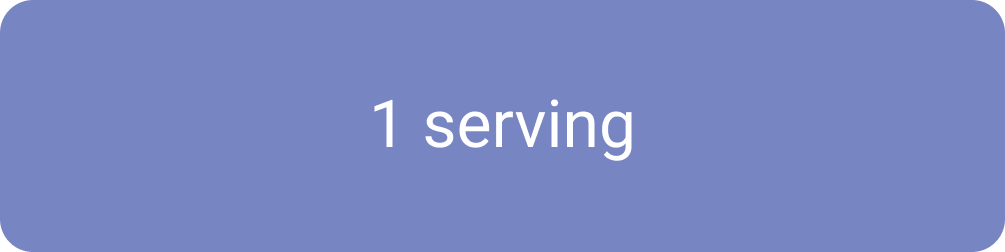
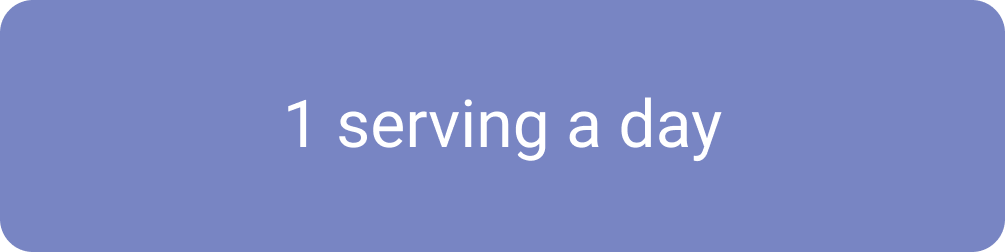
card changes for a week/a day servings; adjusted feedback screen language; adjusted language on alcohol; fixed language bugs;

diff --git a/public/js/script.js b/public/js/script.js
@@ -278,7 +278,7 @@ survey
         if (options.page.name == "page5") {
             if (survey.getQuestionByName("activity-low").value > 1) {
                 survey.getQuestionByName("activity-low-next-title").html = "<div id='sketch-holder'></div> <br>" +
-                    '<h3><center>Nice! And tell me how much intense physical exercise do you do a week?</center></h3>';
+                    '<h3><center>Nice! And tell me how much low intensity exercise do you do a week?</center></h3>';
                 survey.getQuestionByName("activity-low-next").choices = [
                     {"value": 0.75, "imageLink": generic_sport[2]},
                     {"value": 2, "imageLink": generic_sport[3]},
@@ -287,7 +287,7 @@ survey
 
             } else {
                 survey.getQuestionByName("activity-low-next-title").html = "<div id='sketch-holder'></div> <br>" +
-                    '<h3><center>Okay so how much intense physical exercise do you do a week?</center></h3>';
+                    '<h3><center>Okay so how much low intensity exercise do you do a week?</center></h3>';
                 survey.getQuestionByName("activity-low-next").choices = [
                     {"value": 0, "imageLink": generic_sport[0]},
                     {"value": 0.25, "imageLink": generic_sport[1]},
@@ -341,7 +341,7 @@ survey
         if (options.page.name == "page13") {
             if (survey.getQuestionByName("veggies").value > 1) {
                 survey.getQuestionByName("veggies-title").html = "<div id='sketch-holder'></div> <br>" +
-                    '<h3><center>Nice, veggies are super important for good heart health! How many servings you eat a day??</center></h3>' +
+                    '<h3><center>Niiice! How many servings you eat a day??</center></h3>' +
                     "<img alt='' style='margin-left:auto; margin-right:auto; display:block; width:100%;' src='img/veggies_next_image.png'></img>";
                 survey.getQuestionByName("veggies-next").choices = [
                     {"value": 0.5, "imageLink": veggies_a[1]},
@@ -350,7 +350,7 @@ survey
                     {"value": 3, "imageLink": veggies_a[4]}];
             } else {
                 survey.getQuestionByName("veggies-title").html = "<div id='sketch-holder'></div> <br>" +
-                    '<h3><center>Got it! Well, we all know veggies are good for you. So I have to ask, how many servings you eat a day?</center></h3>' +
+                    '<h3><center>Got it! So I have to ask, how many servings you eat a day?</center></h3>' +
                     "<img alt='' style='margin-left:auto; margin-right:auto; display:block; width:100%;' src='img/veggies_next_image.png'></img>";
                 survey.getQuestionByName("veggies-next").choices = [
                     {"value": 0, "imageLink": veggies_a[0]},
@@ -467,7 +467,7 @@ survey
         if (options.page.name == "page30") {
             if (survey.getQuestionByName("alcohol").value > 1) {
                 survey.getQuestionByName("alcohol-title").html = "<div id='sketch-holder'></div> <br>" +
-                    '<h3><center>Okay! Actually drinking alcohol can improve your heart health. How many glasses do you drink a week?</center></h3>';
+                    '<h3><center>Okay! How many glasses do you drink a week?</center></h3>';
                 survey.getQuestionByName("alcohol-next").choices = [
                     {"value": 0.3, "imageLink": alcohol_a[2]},
                     {"value": 0.5, "imageLink": alcohol_a[3]},
@@ -475,7 +475,7 @@ survey
                     {"value": 2, "imageLink": alcohol_a[5]}];
             } else {
                 survey.getQuestionByName("alcohol-title").html = "<div id='sketch-holder'></div> <br>" +
-                    '<h3><center>Alcohol is a bit tricky, a lot isn’t super good for you, but none isn’t either.... 😬 How many glasses do you drink a week?</center></h3>';
+                    '<h3><center>Okay! How many glasses do you drink a week?</center></h3>';
                 survey.getQuestionByName("alcohol-next").choices = [
                     {"value": 0, "imageLink": alcohol_a[0]},
                     {"value": 0.1, "imageLink": alcohol_a[1]},
@@ -645,10 +645,12 @@ survey.onValueChanged.add(function (survey, options) {
 
 
     //
+    var summarySubtitleIndex = 0;
     if (relativeRisk <= 1.0) {
         relativeRiskWord = "Looking good!";
         summaryImage = "./img/Results=Good.jpg"; // healthy.gif
         feedbackImage = "./img/feedback-Results=Good.jpg"; // healthy.gif
+        summarySubtitleIndex = 1;
     } else if (relativeRisk > 1.0 /* was 1.5 before but confusing for usersy6 */ && relativeRisk < 4) {
         relativeRiskWord = "Slightly elevated";
         summaryImage = "./img/Results=Okay.jpg"; // unhealthy.gif
@@ -662,7 +664,7 @@ survey.onValueChanged.add(function (survey, options) {
     const summaryQuestion = survey.getQuestionByName("summary");
     summaryQuestion.html = "<div><center> <h4>Your future risk is...</h4>"
         + "<p><img alt=''  class='summary-image' src=" + summaryImage + "?v=2></p><h3>" + relativeRiskWord + "</h3> " +
-        "<h4>" + summarySubtitle [0] + "</h4></center></div>"
+        "<h4>" + summarySubtitle [summarySubtitleIndex] + "</h4></center></div>"
 
     const goodFoodsQuestion = survey.getQuestionByName("good-foods");
     goodFoodsQuestion.html =

diff --git a/public/js/globals.js b/public/js/globals.js
@@ -42,7 +42,7 @@ let generic_sport = ['img/generic_none.png', 'img/generic_15to30.png', 'img/gene
 
 // First Pages
 let activity_ = ['img/high_activity_0.png', 'img/high_activity_1.png', 'img/activity_2.png', 'img/high_activity_3.png'];
-let activity_low_ = ['img/low_activity_0.png', 'img/activity_1.png', 'img/low_activity_2.png', 'img/activity_3.png'];
+let activity_low_ = ['img/low_activity_0.png', 'img/low_activity_1.png', 'img/low_activity_2.png', 'img/low_activity_3.png'];
 let high_grains_ = ['img/high_grains_0.png', 'img/high_grains_1.png', 'img/high_grains_2.png', 'img/high_grains_3.png'];
 let fruit_ = ['img/fruit_0.png', 'img/fruit_1.png', 'img/fruit_2.png', 'img/fruit_3.png'];
 let veggies_ = ['img/veggies_0.png', 'img/veggies_1.png', 'img/veggies_2.png', 'img/veggies_3.png'];
@@ -65,7 +65,9 @@ let soda_a = ['img/drinks_never.png', 'img/generic_lessthan1.png', 'img/generic_
 let alcohol_a = ['img/drinks_never.png', 'img/generic_lessthan1.png', 'img/generic_1to2.png', 'img/generic_3to5.png', 'img/generic_everyday.png', 'img/generic_twiceaday.png'];
 
 let summarySubtitle = ["Don’t worry! This means that down the road, when you're in your 40s, your heart will be a little more at risk for heart disease.<br><br>" +
-"The good news is you’re still young and have plenty of time to lower your risk and we’ve got some tips to help you do that!"]
+"The good news is you’re still young and have plenty of time to lower your risk and we’ve got some tips to help you do that!",
+"Keep up the good work!! This means that down the road, when you're in your 40s, your heart will be at very little risk of heart disease.<br><br>" +
+"You have great habits and need to make sure you maintain them and we’ve got some tips to help you do that!"]
 let feedbackText = "Awesome, we love to hear that!"
 let noUiSliderUpdate = 0
 

diff --git a/public/js/json.js b/public/js/json.js
@@ -17,7 +17,7 @@ const json = {
                 {
                     "type": "html",
                     "name": "Intro",
-                    "html": "<h2 style='text-align:center'> Tell us what you eat every week and we'll tell you how healthy your heart is</h2>" +
+                    "html": "<h2 style='text-align:center'> Tell us what you do every week and we'll tell you how healthy your heart is</h2>" +
                         "<img alt='' style='margin-left:auto; margin-right:auto; display:block; width:70%;' src='svg/Heart.svg'><br>"
                         // "<p>Not smoking, a healthy weight, a nutritious diet, and daily exercise play important roles in the prevention of cardiovascular disease. In fact, an overall healthy lifestyle may prevent more than 75% of deaths due to cardiovascular disease. Take this quiz to evaluate how your current lifestyle habits affect your cardiovascular health, and discover simple steps you can take to incorporate a Heart Healthy lifestyle into everyday living. Knowledge is power. Take the first step towards protecting your heart and your health!</p>"+
                         //"<br><p><b>Tap the arrow to begin this quiz.</b></p>"
@@ -724,7 +724,7 @@ const json = {
                 {
                     "type": "html",
                     "name": "test",
-                    "html": "<div id='sketch-holder'></div><h3 style='text-align:center'>Gotcha! You may know this, one glass of wine a day is actually beneficial to your heart health, just one though 👀</h3>",
+                    "html": "<div id='sketch-holder'></div>",
                 }
             ]
         }, {
